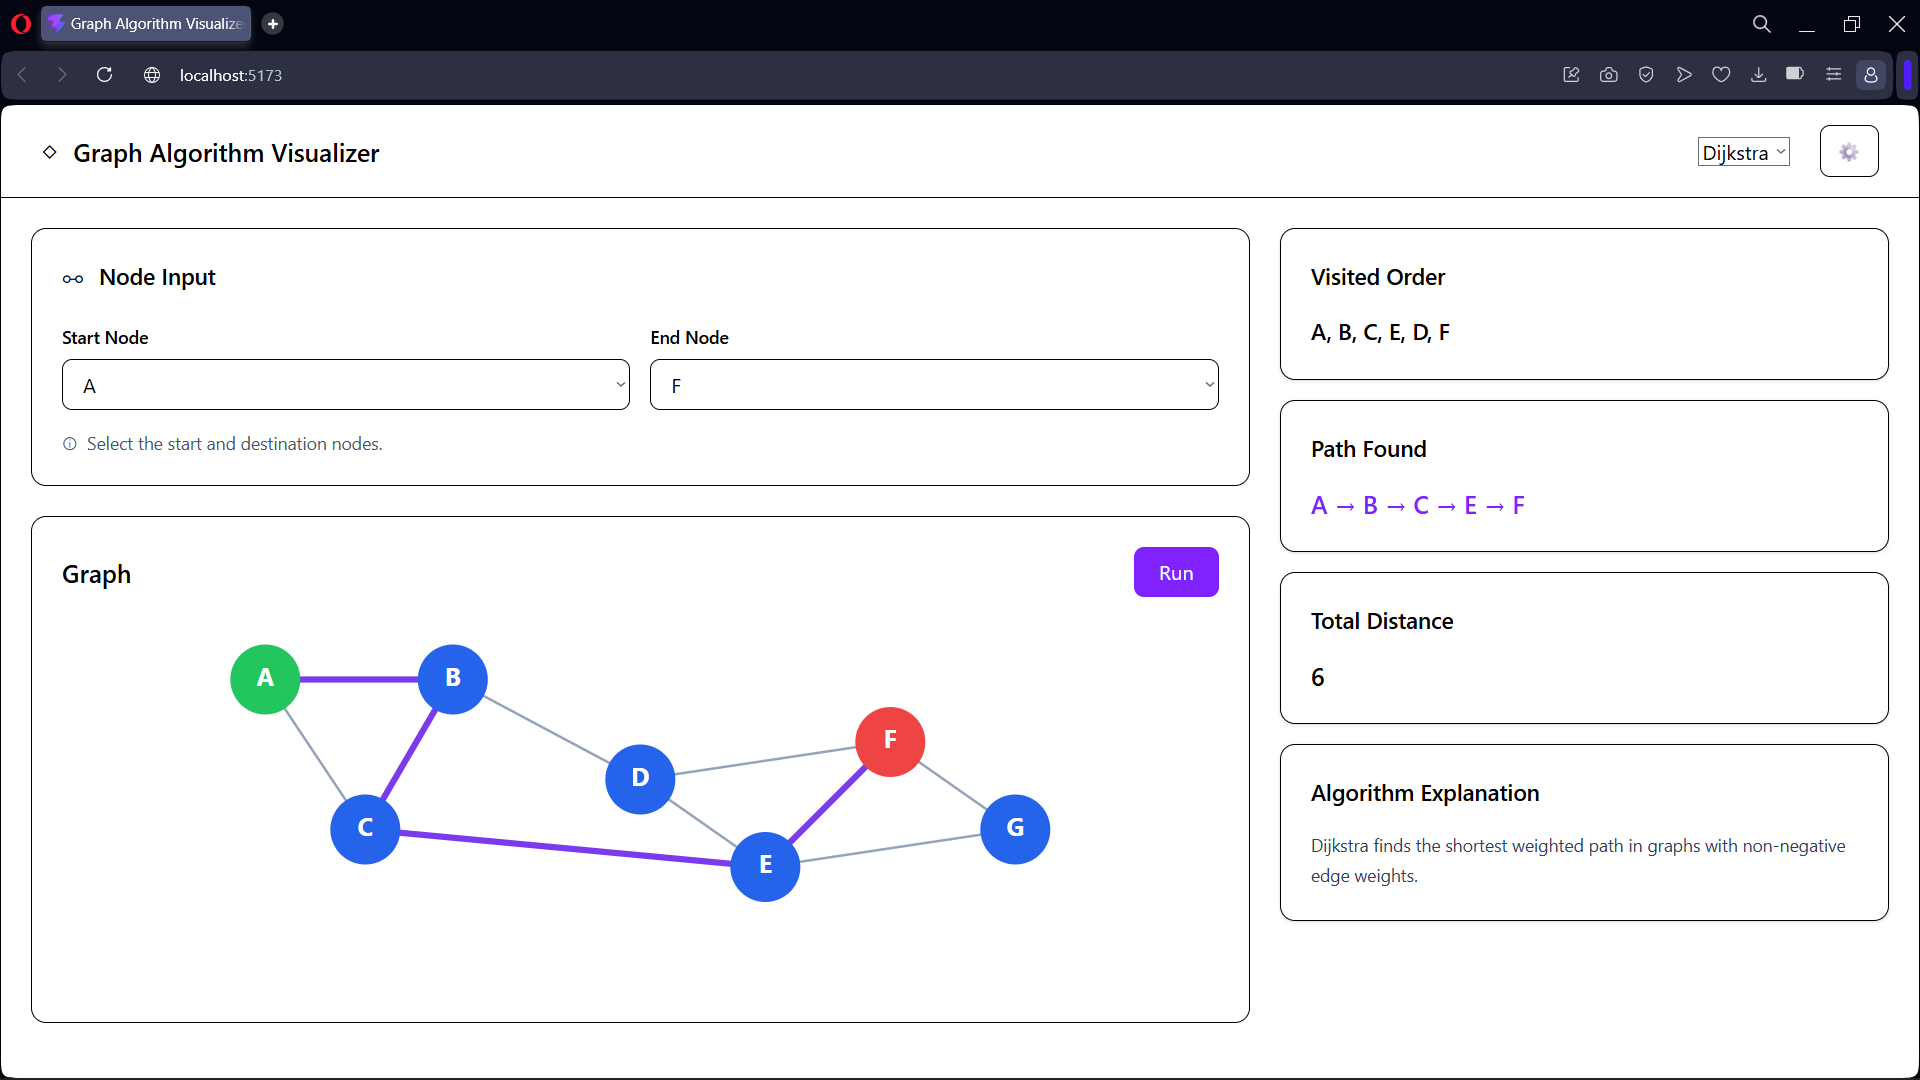
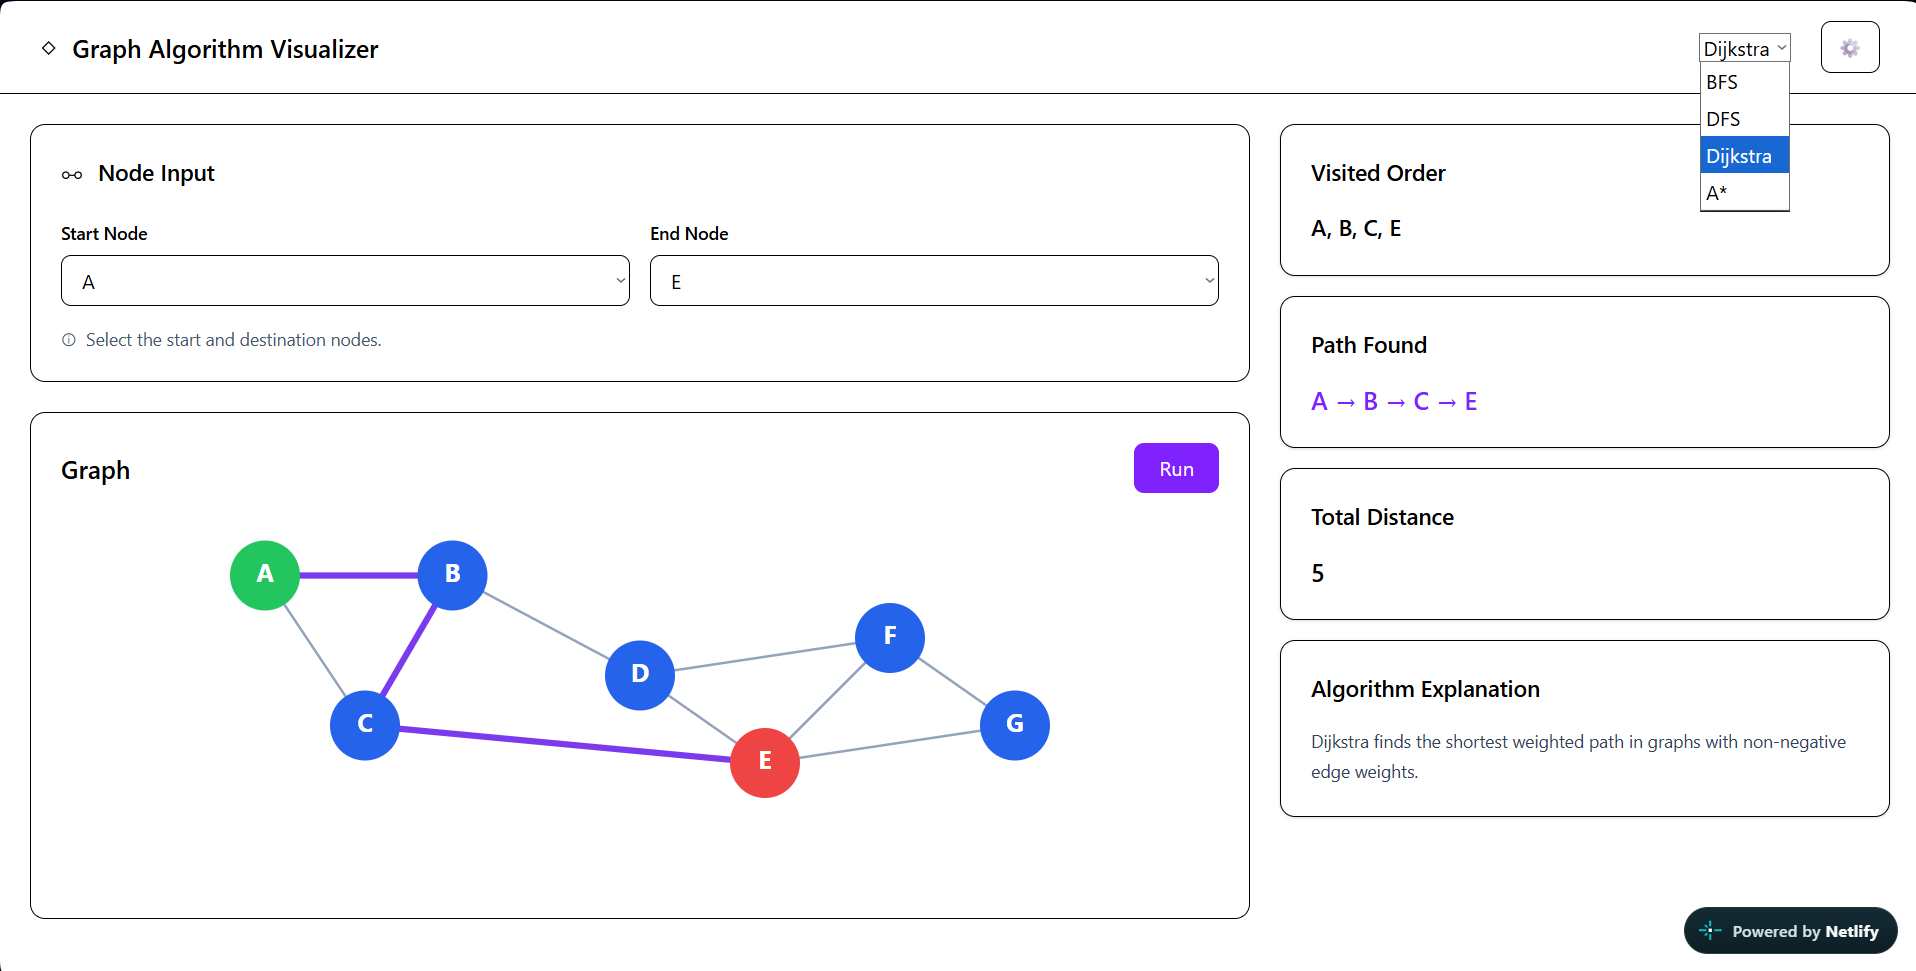
Add project screenshot

diff --git a/README.md b/README.md
@@ -6,6 +6,10 @@ The project visualizes **Breadth-First Search (BFS), Depth-First Search (DFS), D
 
 The project was built to strengthen my understanding of graph algorithms and to gain experience turning algorithmic concepts into a complete interactive application.
 
+## Screenshot
+
+![Graph Algorithm Visualizer](screenshots/graph-visualizer-image.png)
+
 ## Live Demo
 
 [Graph Algorithm Visualizer](https://ivan-graph-visualizer.netlify.app)
